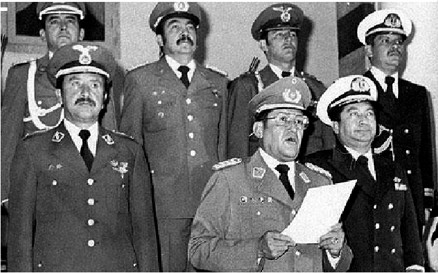
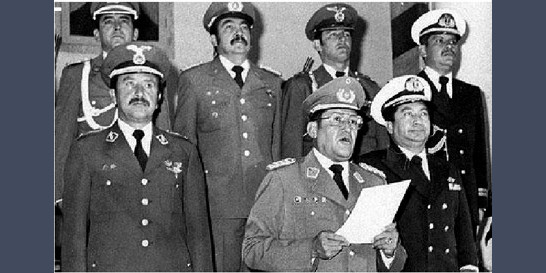
cambios en las images para que tenga 2:1 la proporcion

diff --git a/public/index.html b/public/index.html
@@ -1314,7 +1314,7 @@
     
     
     <a href="/articulos/viene-el-lobo/" >
-      <img src="/articulos/viene-el-lobo/featured_hud4ff1bdbe6af70d25d9bdeb76f4fa5be_306485_150x0_resize_q90_lanczos.jpg" alt="Jeanine y el lobo">
+      <img src="/articulos/viene-el-lobo/featured_hu32c0920dbbb146cb8b9ea6c9a9bd57d7_762832_150x0_resize_lanczos_2.png" alt="Jeanine y el lobo">
     </a>
     
   </div>
@@ -1653,7 +1653,7 @@
     
     
     <a href="/historia/cumpleanios-chavez/"  class="card-image hover-overlay">
-      <img src="/historia/cumpleanios-chavez/featured_hu09df89e3fc78b0431c32c5859facbae1_50985_550x0_resize_q90_lanczos.jpg" alt="" class="img-responsive">
+      <img src="/historia/cumpleanios-chavez/featured_hu4d554c52a157f6415dee996f45d547c4_114277_550x0_resize_q90_lanczos.jpg" alt="" class="img-responsive">
     </a>
     
     <div class="card-text">
@@ -1696,7 +1696,7 @@
     
     
     <a href="/historia/han-matado-a-nuestro-padre/"  class="card-image hover-overlay">
-      <img src="/historia/han-matado-a-nuestro-padre/featured_hufa3c0fd9f13c5e861626ac8285f6133b_82731_550x0_resize_q90_lanczos.jpg" alt="" class="img-responsive">
+      <img src="/historia/han-matado-a-nuestro-padre/featured_hud5da74f76620bd82af242f8b21d86eb2_198087_550x0_resize_q90_lanczos.jpg" alt="" class="img-responsive">
     </a>
     
     <div class="card-text">
@@ -1739,7 +1739,7 @@
     
     
     <a href="/historia/a-40-anios-del-golpe/"  class="card-image hover-overlay">
-      <img src="/historia/a-40-anios-del-golpe/featured_hud853dc999a24df0a636daf5ebd9c35d6_45181_550x0_resize_q90_lanczos.jpg" alt="" class="img-responsive">
+      <img src="/historia/a-40-anios-del-golpe/featured_hu4e0aac1505fe9bd82fac56deaecbb17b_56124_550x0_resize_q90_lanczos.jpg" alt="" class="img-responsive">
     </a>
     
     <div class="card-text">
@@ -1782,7 +1782,7 @@
     
     
     <a href="/historia/san-juan/"  class="card-image hover-overlay">
-      <img src="/historia/san-juan/featured_hucf2d9bbb92a6e5a6c82c2cc47cdb6fc9_83233_550x0_resize_q90_lanczos.jpg" alt="" class="img-responsive">
+      <img src="/historia/san-juan/featured_hu49e7f3eb03f022cc497c284fee438a96_81580_550x0_resize_q90_lanczos.jpg" alt="" class="img-responsive">
     </a>
     
     <div class="card-text">

diff --git a/public/articulos/viene-el-lobo/index.html b/public/articulos/viene-el-lobo/index.html
@@ -283,8 +283,8 @@
   <meta property="og:site_name" content="Kallpa Comunitaria">
   <meta property="og:url" content="https://kcomunitaria.netlify.app/articulos/viene-el-lobo/">
   <meta property="og:title" content="Jeanine y el lobo | Kallpa Comunitaria">
-  <meta property="og:description" content="El carácter accidental del Gobierno de Jeanine Añez se sustenta en dos principios legales&amp;#58; la sucesión Constitucional, de la entonces Senadora por el Beni, y la convocatoria a elecciones en un plazo de 90 días."><meta property="og:image" content="https://kcomunitaria.netlify.app/articulos/viene-el-lobo/featured.jpg">
-  <meta property="twitter:image" content="https://kcomunitaria.netlify.app/articulos/viene-el-lobo/featured.jpg"><meta property="og:locale" content="es">
+  <meta property="og:description" content="El carácter accidental del Gobierno de Jeanine Añez se sustenta en dos principios legales&amp;#58; la sucesión Constitucional, de la entonces Senadora por el Beni, y la convocatoria a elecciones en un plazo de 90 días."><meta property="og:image" content="https://kcomunitaria.netlify.app/articulos/viene-el-lobo/featured.png">
+  <meta property="twitter:image" content="https://kcomunitaria.netlify.app/articulos/viene-el-lobo/featured.png"><meta property="og:locale" content="es">
   
     
       <meta property="article:published_time" content="2020-07-26T00:00:00&#43;00:00">
@@ -615,6 +615,8 @@
 
   
   
+    
+  
 
 
 <div class="article-container pt-3">
@@ -727,9 +729,9 @@
 </div>
 
 
-<div class="article-header article-container featured-image-wrapper mt-4 mb-4" style="max-width: 610px; max-height: 636px;">
+<div class="article-header article-container featured-image-wrapper mt-4 mb-4" style="max-width: 720px; max-height: 360px;">
   <div style="position: relative">
-    <img src="/articulos/viene-el-lobo/featured.jpg" alt="" class="featured-image">
+    <img src="/articulos/viene-el-lobo/featured_hu32c0920dbbb146cb8b9ea6c9a9bd57d7_762832_720x0_resize_lanczos_2.png" alt="" class="featured-image">
     <span class="article-header-caption">Imagen fuente: <a href="https://heraldodeoregon.files.wordpress.com/2011/09/zp-lobo-zapatero.jpg?crop"><strong>Heraldo de Oregón</strong></a></span>
   </div>
 </div>

diff --git a/public/historia/han-matado-a-nuestro-padre/index.html b/public/historia/han-matado-a-nuestro-padre/index.html
@@ -726,9 +726,9 @@
 </div>
 
 
-<div class="article-header article-container featured-image-wrapper mt-4 mb-4" style="max-width: 720px; max-height: 577px;">
+<div class="article-header article-container featured-image-wrapper mt-4 mb-4" style="max-width: 720px; max-height: 360px;">
   <div style="position: relative">
-    <img src="/historia/han-matado-a-nuestro-padre/featured_hufa3c0fd9f13c5e861626ac8285f6133b_82731_720x0_resize_q90_lanczos.jpg" alt="" class="featured-image">
+    <img src="/historia/han-matado-a-nuestro-padre/featured_hud5da74f76620bd82af242f8b21d86eb2_198087_720x0_resize_q90_lanczos.jpg" alt="" class="featured-image">
     <span class="article-header-caption">Asesinato de Gualberto Villaroel</span>
   </div>
 </div>

diff --git a/public/historia/cumpleanios-chavez/index.html b/public/historia/cumpleanios-chavez/index.html
@@ -689,9 +689,9 @@
 </div>
 
 
-<div class="article-header article-container featured-image-wrapper mt-4 mb-4" style="max-width: 720px; max-height: 522px;">
+<div class="article-header article-container featured-image-wrapper mt-4 mb-4" style="max-width: 720px; max-height: 360px;">
   <div style="position: relative">
-    <img src="/historia/cumpleanios-chavez/featured_hu09df89e3fc78b0431c32c5859facbae1_50985_720x0_resize_q90_lanczos.jpg" alt="" class="featured-image">
+    <img src="/historia/cumpleanios-chavez/featured_hu4d554c52a157f6415dee996f45d547c4_114277_720x0_resize_q90_lanczos.jpg" alt="" class="featured-image">
     <span class="article-header-caption"><a href="">Comandante Hugo Chávez</a></span>
   </div>
 </div>

diff --git a/public/historia/san-juan/index.html b/public/historia/san-juan/index.html
@@ -615,6 +615,8 @@
 
   
   
+    
+  
 
 
 <div class="article-container pt-3">
@@ -724,9 +726,9 @@
 </div>
 
 
-<div class="article-header article-container featured-image-wrapper mt-4 mb-4" style="max-width: 609px; max-height: 405px;">
+<div class="article-header article-container featured-image-wrapper mt-4 mb-4" style="max-width: 720px; max-height: 360px;">
   <div style="position: relative">
-    <img src="/historia/san-juan/featured.jpg" alt="" class="featured-image">
+    <img src="/historia/san-juan/featured_hu49e7f3eb03f022cc497c284fee438a96_81580_720x0_resize_q90_lanczos.jpg" alt="" class="featured-image">
     <span class="article-header-caption">Foto del Periódico ‘la época’</span>
   </div>
 </div>

diff --git a/public/historia/a-40-anios-del-golpe/index.html b/public/historia/a-40-anios-del-golpe/index.html
@@ -675,7 +675,7 @@
 </div>
 
 
-<div class="article-header article-container featured-image-wrapper mt-4 mb-4" style="max-width: 438px; max-height: 273px;">
+<div class="article-header article-container featured-image-wrapper mt-4 mb-4" style="max-width: 546px; max-height: 273px;">
   <div style="position: relative">
     <img src="/historia/a-40-anios-del-golpe/featured.jpg" alt="" class="featured-image">
     <span class="article-header-caption">Golpe de Estado de 1980</span>
